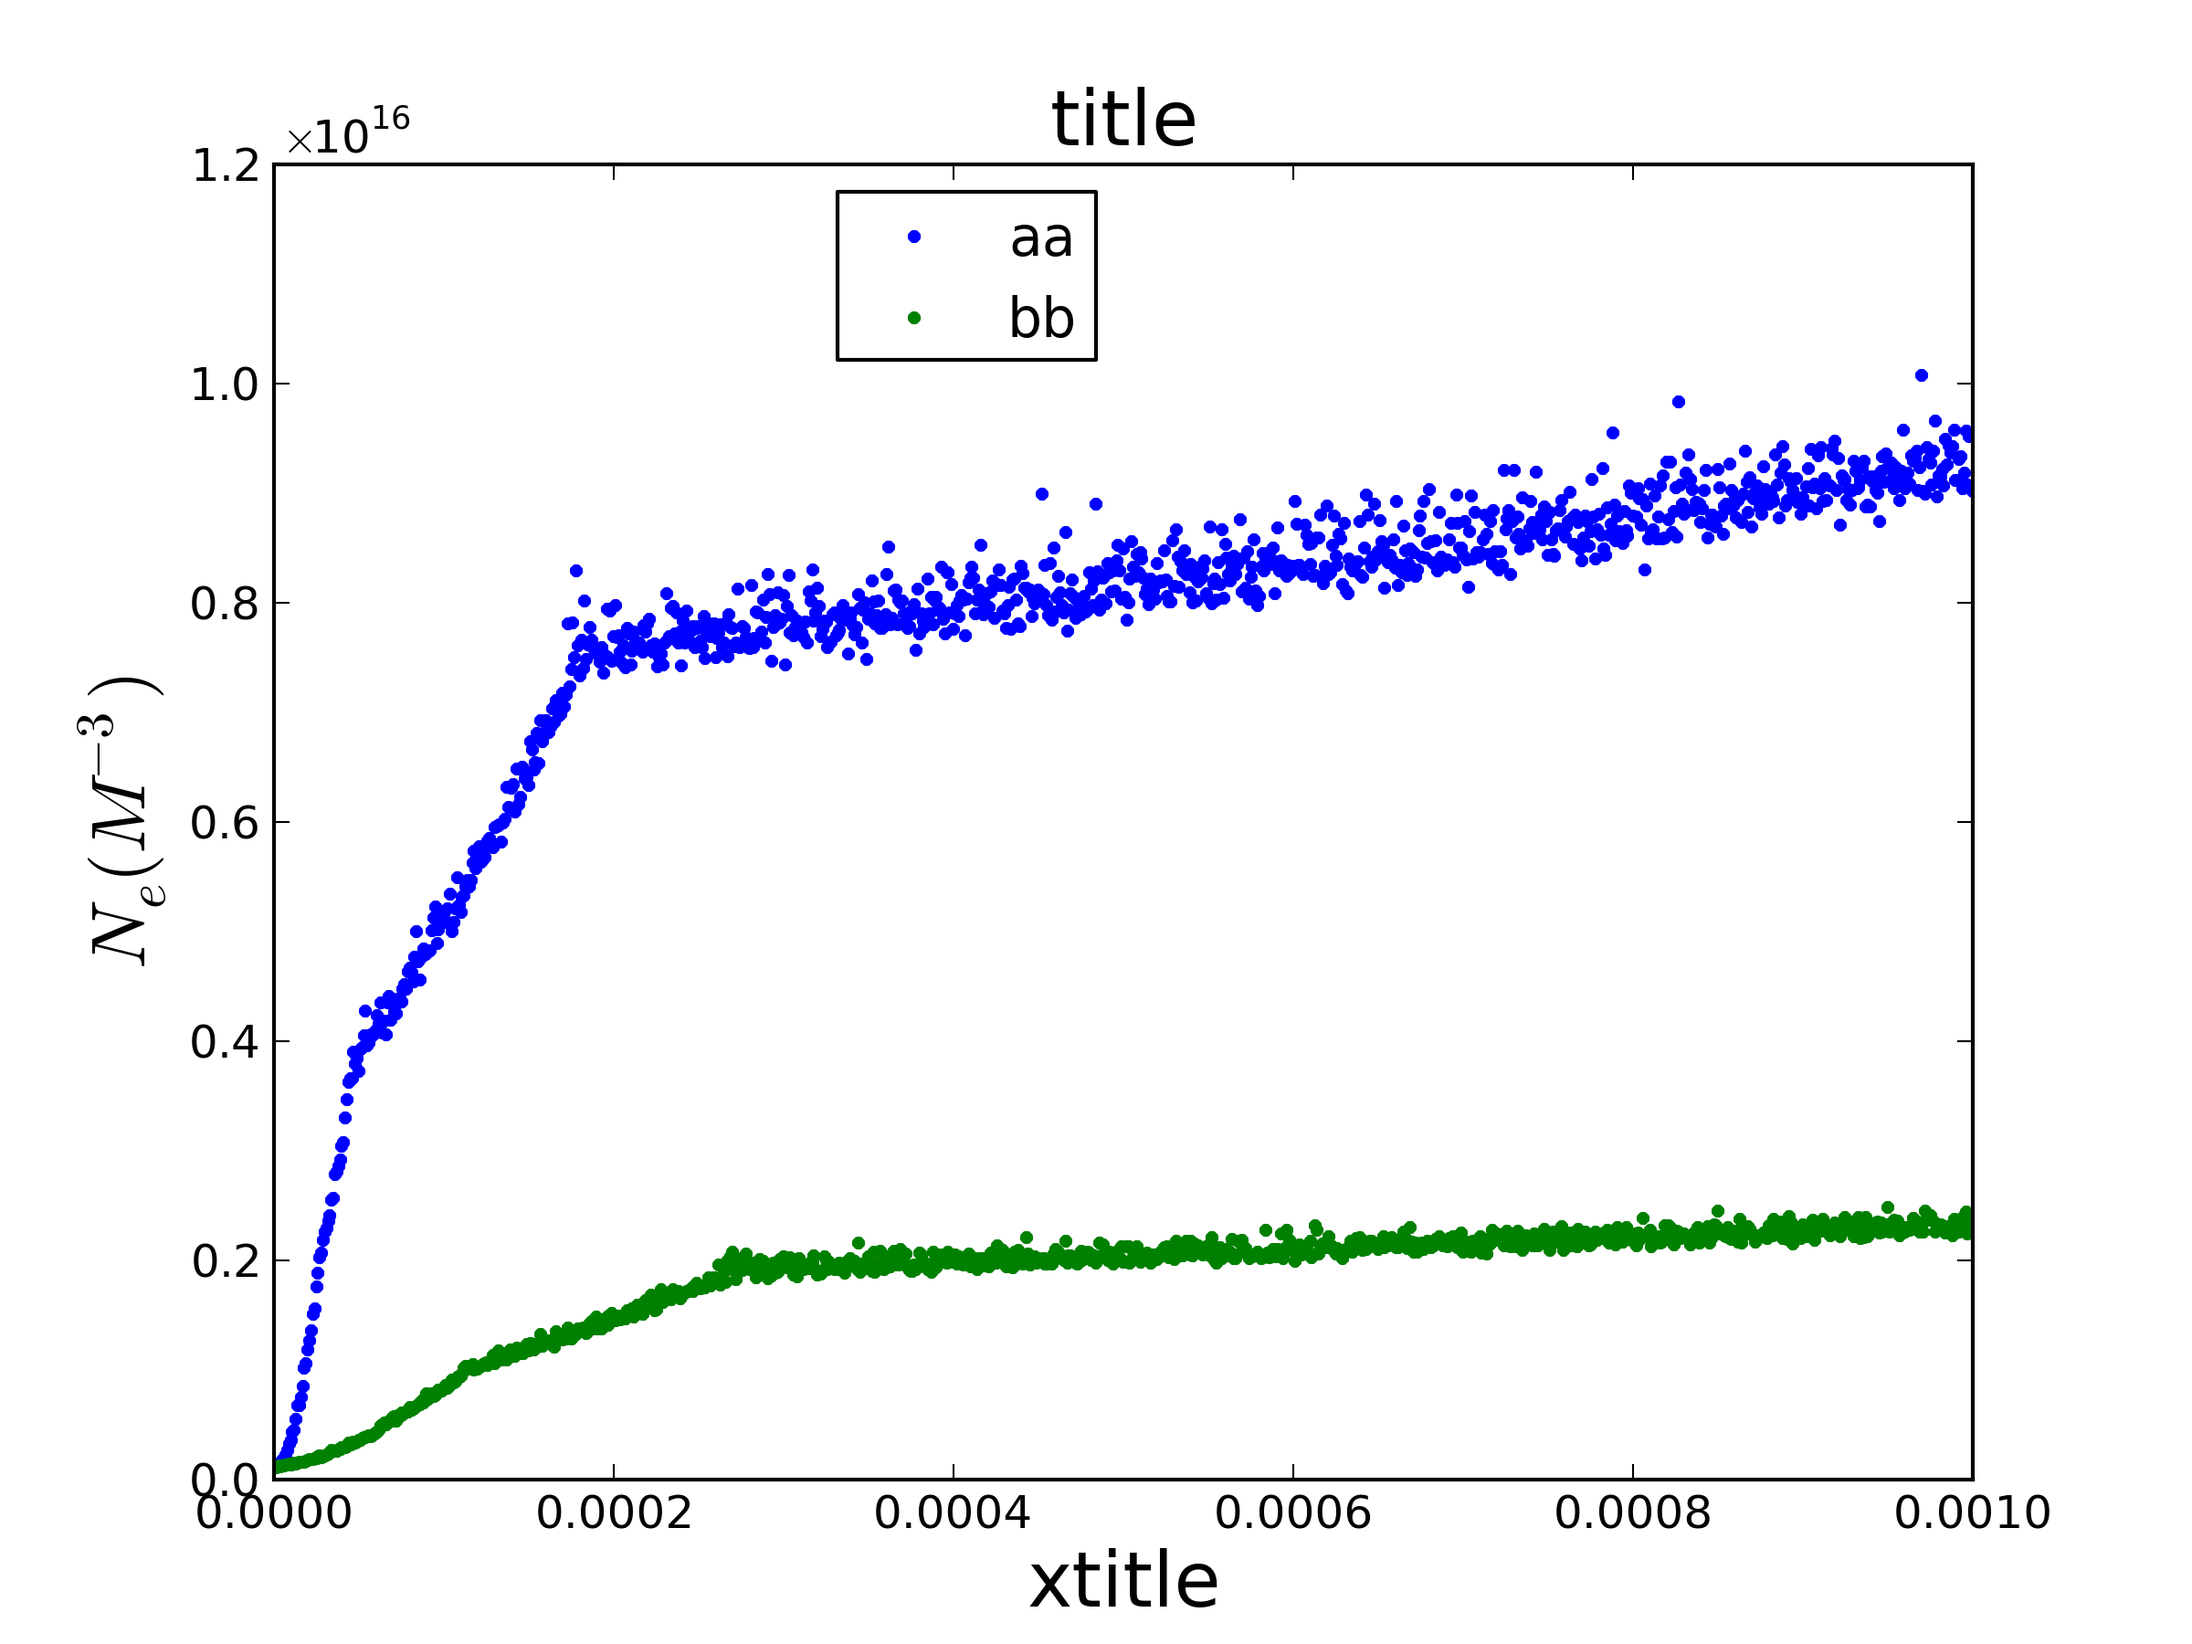
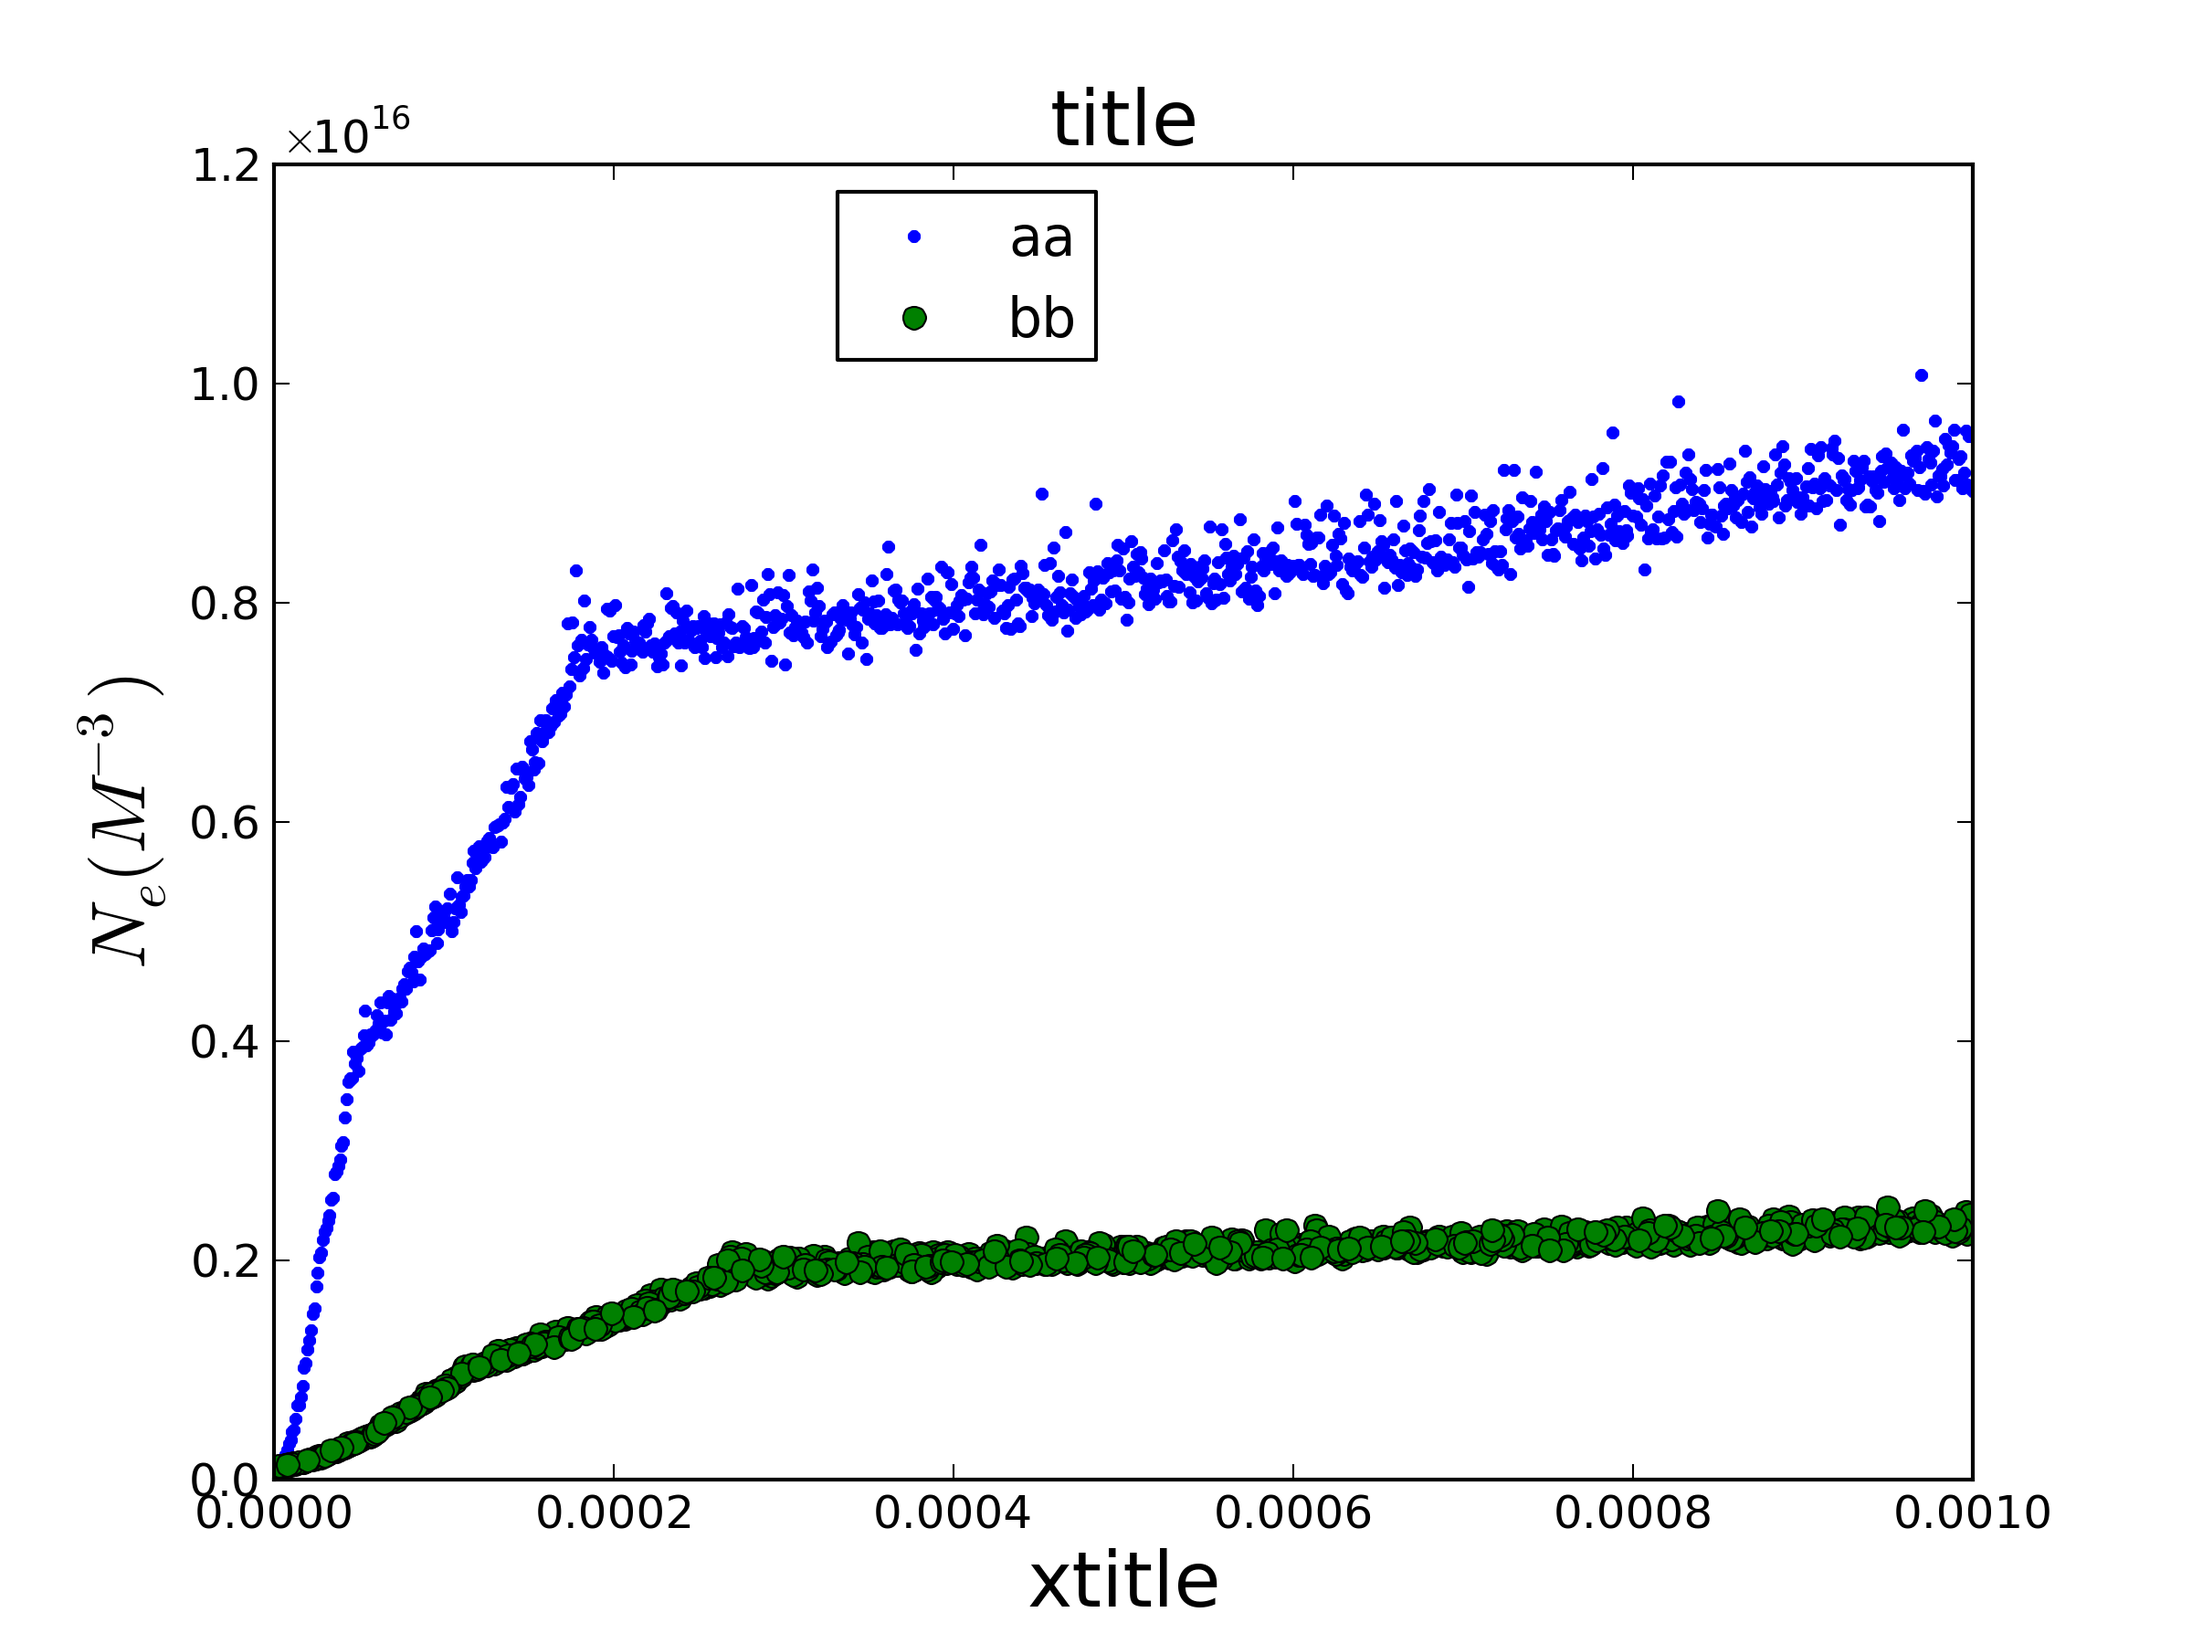
update marker
cor chart differnet shape

Changed region(s): [[0.125, 0.7156, 0.9062, 0.9022], [0.4062, 0.1867, 0.4375, 0.2178]]

diff --git a/src/graph_maker.py b/src/graph_maker.py
@@ -17,6 +17,7 @@ class graph_maker(object):
     ytitle = ''
     filename = ''
     color=['b','g','r','c','m','y']
+    marker=['.','o','+','x','v','^']
 
     def __init__(self,title,xtitle,ytitle,filename):
         self.title = title
@@ -74,7 +75,7 @@ class graph_maker(object):
         gca().yaxis.set_major_formatter(ScalarFormatter(useMathText=True))
         for index in range(0,len(Xdata)):
             print index
-            tt = ax.plot(Xdata[index],Ydata[index],'.',color=self.color[index])#
+            tt = ax.plot(Xdata[index],Ydata[index],self.marker[index],color=self.color[index])#
             tts = tts+tt
         plt.legend(tts,lengenddata,numpoints=1,bbox_to_anchor=(legendposition[0], legendposition[1]))
         plt.show()
